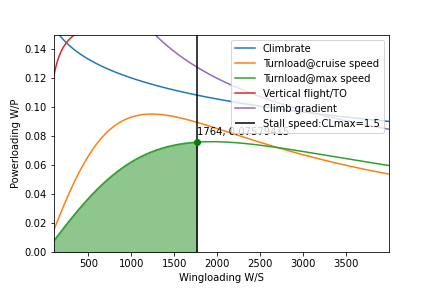
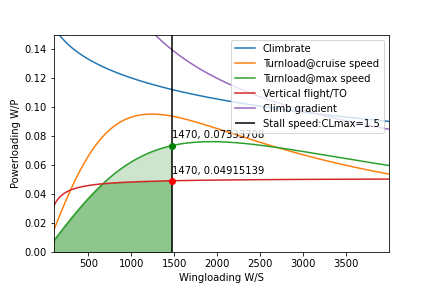
Finished wingloading

diff --git a/scripts/Preliminary_sizing/wing_power_loading.py b/scripts/Preliminary_sizing/wing_power_loading.py
@@ -18,6 +18,7 @@ ylim = [0,0.15]
 
 def plot_wing_power_loading_graphs(dict_directory,dict_name,i):
     #Check if it"s lilium or not to define the variable that will say to vertical_flight what formula to use.
+    cont_factor = 1
     with open(dict_directory+"\\"+dict_name, "r") as jsonFile:
         data = json.loads(jsonFile.read())
     #data["WS"],data["TW"],data["WP_cruise"],data["WP_hover"] = plot_wing_power_loading_graphs(data["eff"], data["StotS"], data["diskloading"], data["name"],WS_range,i)
@@ -27,13 +28,15 @@ def plot_wing_power_loading_graphs(dict_directory,dict_name,i):
     plt.figure(i)#make sure each plot has its own value
     
     #CALCULATE ALL THE VALUES FOR THE GRAPHS
-    TW_range = powerloading_thrustloading(WS_range,rho0,data['roc'],data['StotS'])
-    CLIMBRATE = powerloading_climbrate(data['eff'], data['roc'], WS_range,rho_cruise,data['cd0'],data['e'],data['A'])
-    TURN_VCRUISE = powerloading_turningloadfactor(rho_cruise,data['v_cruise'],WS_range,data['eff'],data['A'],data['e'],data['loadfactor'],data['cd0'])
-    TURN_VMAX = powerloading_turningloadfactor(rho_cruise,data['v_max'],WS_range,data['eff'],data['A'],data['e'],data['loadfactor'],data['cd0'])
-    VERTICALFLIGHT = powerloading_verticalflight(TW_range,data['diskloading'],rho0,data['eff'],data['ducted_bool'])
+    TW_range = powerloading_thrustloading(WS_range,rho0,data['roc'],data['StotS'])  
+    #if data["name"] == "J1":   
+    #    TW_range = TW_range*1.3     #Added 30% extra thrust to maintain stability
+    CLIMBRATE = cont_factor*powerloading_climbrate(data['eff'], data['roc'], WS_range,rho_cruise,data['cd0'],data['e'],data['A'])
+    TURN_VCRUISE = cont_factor*powerloading_turningloadfactor(rho_cruise,data['v_cruise'],WS_range,data['eff'],data['A'],data['e'],data['loadfactor'],data['cd0'])
+    TURN_VMAX = cont_factor*powerloading_turningloadfactor(rho_cruise,data['v_max'],WS_range,data['eff'],data['A'],data['e'],data['loadfactor'],data['cd0'])
+    VERTICALFLIGHT = cont_factor*powerloading_verticalflight(data['mtom'],TW_range,data['A_tot'],rho0,data['eff'],data['ducted_bool'],9.81)
     STALLSPEED = wingloading_stall(data['cLmax'],data['v_stall'], rho0)
-    CLIMBGRADIENT = powerloading_climbgradient(data['e'],data['A'],data['cd0'],WS_range,rho0,data['eff'],data['G'])
+    CLIMBGRADIENT = cont_factor*powerloading_climbgradient(data['e'],data['A'],data['cd0'],WS_range,rho0,data['eff'],data['G'])
     
     #PLOT ALL THE LINES
     plt.plot(WS_range,CLIMBRATE,label="Climbrate")
@@ -63,14 +66,11 @@ def plot_wing_power_loading_graphs(dict_directory,dict_name,i):
     
     
     #PLOT LIMITING DESIGN POINTS AND WRITE THE VALUES
-    if lowest_area_y_novf[-1] == lowest_area_y[-1]:
-        plt.plot(STALLSPEED,lowest_area_y_novf[-1],marker = "o",color = "green")
-        plt.annotate((str(int(STALLSPEED))+", "+str(round(WP_cruise,8))),(STALLSPEED,WP_cruise+0.005))
-    else: 
-        plt.plot(STALLSPEED,lowest_area_y_novf[-1],marker = "o",color = "green")
-        plt.annotate((str(int(STALLSPEED))+", "+str(round(WP_cruise,8))),(STALLSPEED,WP_cruise+0.005))
+    plt.plot(STALLSPEED,lowest_area_y_novf[-1],marker = "o",color = "green")
+    plt.annotate((str(int(STALLSPEED))+", "+str(round(WP_cruise,8))),(STALLSPEED,WP_cruise+0.005))
+    if lowest_area_y_novf[-1] != lowest_area_y[-1]:
         plt.plot(STALLSPEED,lowest_area_y[-1],marker = "o",color = "red")
-        plt.annotate((str(int(STALLSPEED))+", "+str(round(WP_hover,8))),(STALLSPEED,WP_hover-0.01))
+        plt.annotate((str(int(STALLSPEED))+", "+str(round(WP_hover,8))),(STALLSPEED,WP_hover+0.005))
     
     #GRAPH MAKE-UP
     plt.legend(loc='upper right')
@@ -83,11 +83,13 @@ def plot_wing_power_loading_graphs(dict_directory,dict_name,i):
     
     #PRINT VALUES
     print(data['name'])
+    print("\n\n\n")
     print("WS = ",str(STALLSPEED))
-    print("WP = ",str(round(lowest_area_y[-1],8)))
-    print("WP_noverticalflight = ",str(round(lowest_area_y_novf[-1],8)))
+    print("WP = ",str(round(WP_hover,8)))
+    print("WP_noverticalflight = ",str(round(WP_cruise,8)))
     print("TW = ", str(round(TW_max,8))),'\n'
-    
+    print("Power required  = ", 2510*9.81/WP_hover/1000,"[kW]")
+
     with open(dict_directory+"\\"+dict_name, "r") as jsonFile:
         data = json.loads(jsonFile.read())
     data["WS"],data["TW"],data["WP_cruise"],data["WP_hover"] = WS_max,TW_max,WP_cruise,WP_hover

diff --git a/Modules/preliminary_sizing/powerloading.py b/Modules/preliminary_sizing/powerloading.py
@@ -16,12 +16,17 @@ def powerloading_turningloadfactor(rho,V,WS,eff,A,e,loadfactor,CD0):
 
 def powerloading_thrustloading(WS,rho,ROC,StotS):
     return 1.2*(1+(1/WS)*rho*ROC**2*StotS)
+    #return 1.2*(1+np.ones(np.shape(WS)))*1.3
 
-def powerloading_verticalflight(TW,diskloading,rho,eff,ducted_bool):
+def powerloading_verticalflight(MTOM,TW,A_tot,rho,eff,ducted_bool,g):
+    W = MTOM *9.81
+    T = TW * W
+    
     if ducted_bool==True:
-        return (0.5*TW*np.sqrt(diskloading/rho))**(-1)*eff
+        return (0.5*np.sqrt((T*T*T)/(W*W*rho*A_tot)))**(-1)*eff
     else:
-        return (TW*np.sqrt(diskloading/(2*rho)))**(-1)*eff
+        return (np.sqrt((T*T*T)/(2*W*W*rho*A_tot)))**(-1)*eff    
+       
 def powerloading_climbgradient(e,A,CD0,WS,rho,eff,G):
     CL = np.sqrt(np.pi*e*A*CD0)
     CD = 2*CD0
